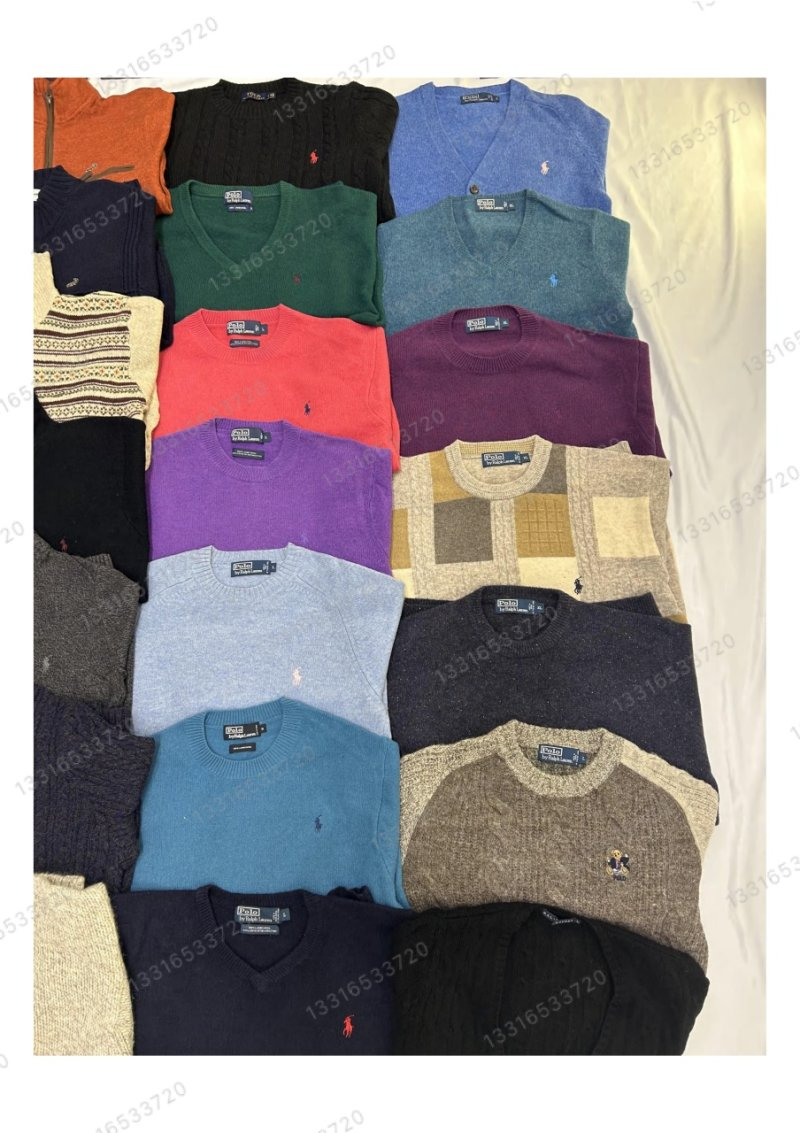
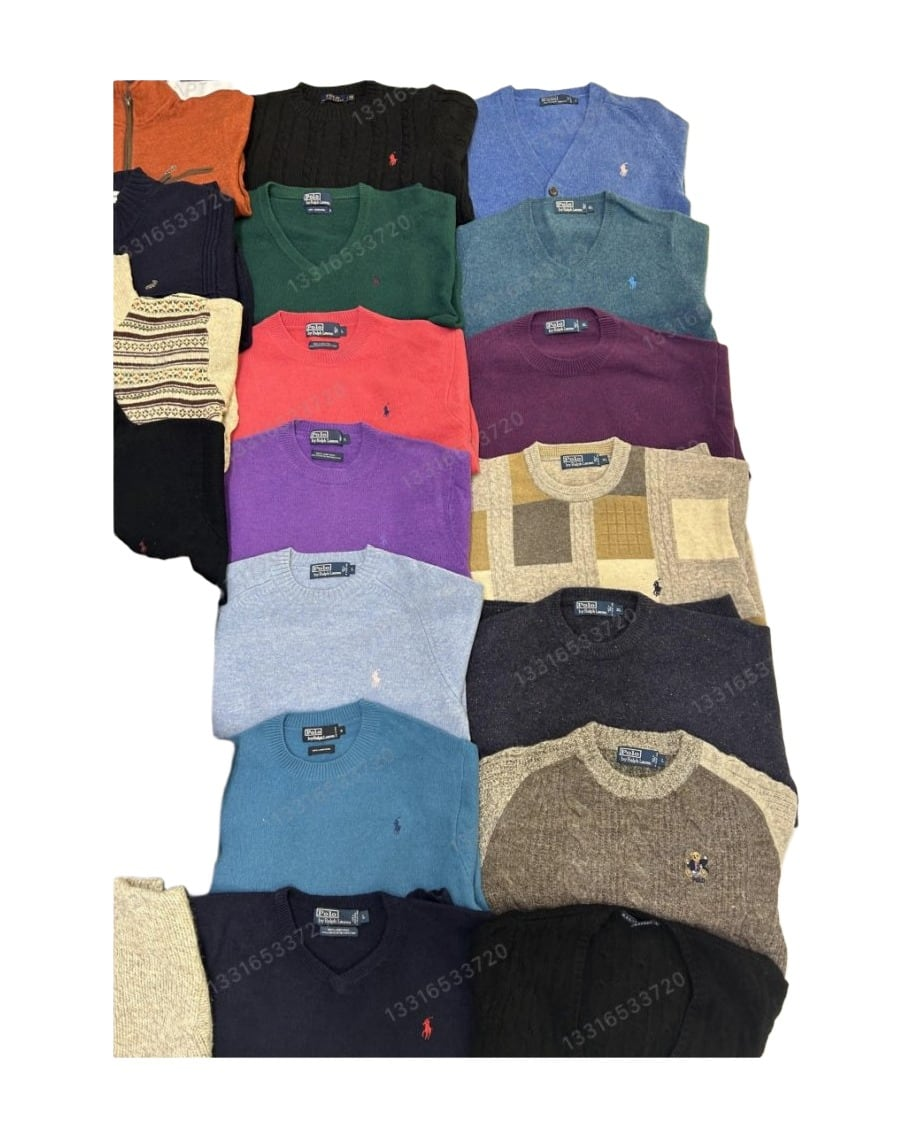
Web publicada el 2026-10-14 20:40

diff --git a/vendedores/index.html b/vendedores/index.html
@@ -2,7 +2,7 @@
 <html lang="es">
 <head>
 <meta charset="utf-8">
-<meta http-equiv="Content-Security-Policy" content="default-src 'self'; script-src 'self' 'sha256-HQnidxv61TWx4D++HgdNKWTWyY9yBMqrnf8UwqyBV1c='; style-src 'self' 'unsafe-inline'; font-src 'self'; img-src 'self' data: https:; connect-src https://script.google.com https://script.googleusercontent.com; frame-src 'none'; object-src 'none'; base-uri 'none'; form-action 'none'">
+<meta http-equiv="Content-Security-Policy" content="default-src 'self'; script-src 'self' 'sha256-zx4AKUakDS2PsJujcSL1/nWiaorIoNmr+4t3TleY1Lg='; style-src 'self' 'unsafe-inline'; font-src 'self'; img-src 'self' data: https:; connect-src https://script.google.com https://script.googleusercontent.com; frame-src 'none'; object-src 'none'; base-uri 'none'; form-action 'none'">
 <meta name="viewport" content="width=device-width, initial-scale=1">
 <meta name="robots" content="noindex, nofollow">
 <meta name="theme-color" media="(prefers-color-scheme: light)" content="#E8E9E3">
@@ -426,8 +426,14 @@
   // ordenador la lista no está, y se prueba img/<codigo>.jpg como siempre.
   /* ===== FOTOS DEL CATÁLOGO · las pone `npm run web` ===== */
   const FOTOS_CATALOGO = ["CALC-RL.jpg","CARD-MIX.jpg","CHAQ-RL.jpg","GORE-ARC.jpg","JER-LAC.jpg","JER-RL.jpg","PERF-BDC.jpg","PERF-LOE.jpg","PERF-TF.jpg","POLO-LAC.jpg","POLO-RL.jpg","ROPI-CK.jpg"];
+  // Tus fotos (las de tu carpeta de Drive, con fondo blanco): las mismas que la tienda, por código de la hoja
+  // ({"POLO-RL": ["ZB-004-1", "ZB-004-2"]}). Están en la tienda (../fotos/), así que no se repiten. Mandan sobre
+  // las del proveedor.
+  const FOTOS_PROPIAS = {};
   /* ===== FIN DE LAS FOTOS DEL CATÁLOGO ===== */
   const hayFoto = (archivo) => !Array.isArray(FOTOS_CATALOGO) || FOTOS_CATALOGO.indexOf(archivo) >= 0;
+  const propias = (cod) => (cod && Object.prototype.hasOwnProperty.call(FOTOS_PROPIAS, cod) && Array.isArray(FOTOS_PROPIAS[cod])
+    ? FOTOS_PROPIAS[cod].filter((n) => /^ZB-\d{3}-\d{1,2}$/.test(n)) : []);
 
   // ---- La última visita: para enseñar algo al momento ----
   // Google tarda unos segundos. Mientras, se enseña el stock de la última vez que se abrió el
@@ -572,7 +578,10 @@
       // FOTOS_CATALOGO). Si ese archivo no existe, queda el hueco "sin foto" (ver fotoRota). Para
       // completar una ficha basta con guardar la foto en web/img/ con el nombre del codigo
       // (ej. BOTA-NIK.jpg): en tu ordenador sale al recargar; en la web, al publicar.
-      const src = g.imagen || (g.cod && hayFoto(`${g.cod}.jpg`) ? `img/${g.cod}.jpg` : '');
+      // Primero, tus fotos (las de la tienda: ../fotos/ZB-004-1-p.webp).
+      const mias = propias(g.cod);
+      const src = mias.length ? `../fotos/${mias[0]}-p.webp`
+        : g.imagen || (g.cod && hayFoto(`${g.cod}.jpg`) ? `img/${g.cod}.jpg` : '');
       const foto = src
         ? `<img src="${esc(src)}" data-cod="${esc(g.cod)}" alt="${esc(g.producto)} ${esc(g.modelo)}" loading="lazy" data-sinfoto>`
         : sinFoto(g.cod);
@@ -843,9 +852,9 @@
       });
     });
 
-    // Galería a pantalla completa. La portada es COD.jpg; las demás fotos del mismo
-    // producto son COD-2.jpg, COD-3.jpg… Se buscan al abrir (solo del producto que miras)
-    // y se pasan con flechas, teclado o deslizando. Suelta más fotos y aparecen solas.
+    // Galería a pantalla completa. Con tus fotos, todas las de la prenda (en grande). Si no, la portada es
+    // COD.jpg y las demás del mismo producto son COD-2.jpg, COD-3.jpg… Se buscan al abrir (solo del producto
+    // que miras) y se pasan con flechas, teclado o deslizando. Suelta más fotos y aparecen solas.
     let galeria = { fotos: [], idx: 0 };
     const renderGaleria = () => {
       const { fotos, idx } = galeria;
@@ -871,10 +880,11 @@
     };
     el('grid').addEventListener('click', (e) => {
       if (e.target.tagName !== 'IMG') return;
-      galeria = { fotos: [e.target.src], idx: 0 };
+      const mias = propias(e.target.dataset.cod);
+      galeria = { fotos: mias.length ? mias.map((n) => `../fotos/${n}.webp`) : [e.target.src], idx: 0 };
       renderGaleria();
       el('lightbox').hidden = false;
-      buscarMas(e.target.dataset.cod, 2);
+      if (!mias.length) buscarMas(e.target.dataset.cod, 2);
     });
     const cerrarLb = () => { el('lightbox').hidden = true; };
     el('lightbox').addEventListener('click', (e) => { if (e.target.id === 'lightbox') cerrarLb(); });

diff --git a/index.html b/index.html
@@ -2,7 +2,7 @@
 <html lang="es">
 <head>
 <meta charset="utf-8">
-<meta http-equiv="Content-Security-Policy" content="default-src 'self'; script-src 'self' 'sha256-MZTvZohmHWTGzu78k6v9zG36UjYhLz7+olb9k5BS7Hw=' https://www.googletagmanager.com; style-src 'self' 'unsafe-inline'; font-src 'self'; img-src 'self' data: https://*.google-analytics.com https://*.googletagmanager.com; connect-src https://script.google.com https://script.googleusercontent.com https://*.google-analytics.com https://*.analytics.google.com https://*.googletagmanager.com; frame-src 'none'; object-src 'none'; base-uri 'none'; form-action 'none'">
+<meta http-equiv="Content-Security-Policy" content="default-src 'self'; script-src 'self' 'sha256-ND/kX1w6Pk1oTmf9D4OWOA6vbdOqDLuGJYY4u8qRP90=' https://www.googletagmanager.com; style-src 'self' 'unsafe-inline'; font-src 'self'; img-src 'self' data: https://*.google-analytics.com https://*.googletagmanager.com; connect-src https://script.google.com https://script.googleusercontent.com https://*.google-analytics.com https://*.analytics.google.com https://*.googletagmanager.com; frame-src 'none'; object-src 'none'; base-uri 'none'; form-action 'none'">
 <meta name="viewport" content="width=device-width,initial-scale=1,viewport-fit=cover,interactive-widget=resizes-content">
 <title>ZUBI · Ropa de calle en Madrid · Buen precio, stock limitado</title>
 <meta name="description" content="Fútbol retro, punto, sudaderas, chaquetas y zapatillas en Madrid. Stock real por talla, pedido por WhatsApp en un minuto, envío a toda España en 24-48 h y recogida en mano gratis.">
@@ -208,6 +208,8 @@ a{color:var(--azul); text-underline-offset:3px; text-decoration-thickness:1px}
 @media (hover:hover) and (pointer:fine){.card:hover .shot svg,.card:hover .shot img{transform:scale(1.04)}}
 .shot .badge,.shot .ref{z-index:1}
 .shot:has(img) .ref{background:var(--paper); padding:1px 6px}
+/* Las fotos llevan fondo blanco (scripts/fondo-blanco.js): su recuadro, también blanco, también en el tema oscuro. */
+.shot:has(img),.fotos figure:has(img),.li .mini:has(img){background:#FFFFFF}
 .badge{position:absolute; top:12px; left:12px; font-size:10px; letter-spacing:.16em; text-transform:uppercase; background:var(--ink); color:var(--paper); padding:4px 9px; font-weight:500}
 .badge.low{background:var(--paper); color:var(--ink); border:1px solid var(--ink)}
 .badge.gone{background:var(--ink-3); color:var(--paper)}
@@ -709,7 +711,7 @@ const STOCK = {"fecha":"2026-10-14","fuente":"Google","disponible":{"MUN-ESP-S":
 /* ===== FIN DE LA FOTO DE STOCK ===== */
 /* ===== FOTOS PROPIAS · las pone `npm run web` con lo que haya en tienda/fotos/ (ZB-001.jpg, ZB-001-2.jpg…):
    {"ZB-001": ["ZB-001-1", "ZB-001-2"]} → fotos/ZB-001-1.webp (grande) y fotos/ZB-001-1-p.webp (pequeña) ===== */
-const FOTOS = {};
+const FOTOS = {"ZB-004":["ZB-004-1"],"ZB-005":["ZB-005-1"],"ZB-008":["ZB-008-1"],"ZB-017":["ZB-017-1"],"ZB-018":["ZB-018-1"],"ZB-030":["ZB-030-1"]};
 /* ===== FIN DE LAS FOTOS ===== */
 const IG_PLACEHOLDER = "zubi.madrid", MAIL_PLACEHOLDER = "hola@zubi.es";
 
